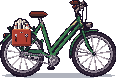
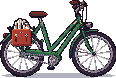
art(ui): tutup rantai menggantikan chainstay, pipa step-through lurus
Penilaian pemilik: chainstay dari engkol tampak menancap ke ban, jadi
diganti tutup rantai hijau yang separuhnya sudah ada di gambar sumber,
diteruskan sampai gir depan dengan ujung melengkung di atas gir. Dua
pipa step-through tampak bergerigi karena potongan sumber dan lanjutan
tidak segaris; sekarang digambar ulang lurus pada garis yang diukur dari
pipa sumber (pipa atas ke tabung sadel, pipa bawah ke poros gir).

Claude-Session: https://claude.ai/code/session_014pKAHN68ypreAvo6djoDqb

Changed region(s): [[0.2069, 0.3077, 0.7241, 0.7949]]

diff --git a/docs/design/redesain/kanvas/Bengkel_TataA.dc.html b/docs/design/redesain/kanvas/Bengkel_TataA.dc.html
@@ -39,7 +39,7 @@ body{margin:0}
 <section class="pnl layar ab" aria-label="Sepeda" style="left: 220px; top: 62px; width: 200px; height: 232px; padding: 4px">
 <div style="position: relative; height: 100%; overflow: hidden; background: #2A1E17; box-shadow: 0 0 0 1px #0E0A1C">
 <img src="/_blob/7cb89d9a8ad08057e730fa7585a0ad93" alt="" style="position: absolute; left: -84px; bottom: 0">
-<img src="/_blob/36b93a68c6a3e83e76194f4f7aeaf630" alt="Sepeda loper" style="position: absolute; left: 34px; top: 132px">
+<img src="/_blob/d3a25f225eede42c995499578ba21adf" alt="Sepeda loper" style="position: absolute; left: 34px; top: 132px">
 <i style="position: absolute; left: 38px; top: 199px; width: 3px; height: 3px; background: #FF8A3D; box-shadow: 0 0 0 1px #0E0A1C"></i>
 <span class="chip kecil warn" style="position: absolute; left: 4px; top: 186px">! Ban</span>
 <i style="position: absolute; left: 107px; top: 136px; width: 3px; height: 3px; background: #FF8A3D; box-shadow: 0 0 0 1px #0E0A1C"></i>

diff --git a/docs/design/redesain/kanvas/Bengkel_TataB.dc.html b/docs/design/redesain/kanvas/Bengkel_TataB.dc.html
@@ -22,7 +22,7 @@ body{margin:0}
 <section class="pnl layar ab" aria-label="Sepeda" style="left: 12px; top: 46px; width: 280px; height: 170px; padding: 4px">
 <div style="position: relative; height: 100%; overflow: hidden; background: #2A1E17; box-shadow: 0 0 0 1px #0E0A1C">
 <img src="/_blob/7cb89d9a8ad08057e730fa7585a0ad93" alt="" style="position: absolute; left: -48px; bottom: 0">
-<img src="/_blob/36b93a68c6a3e83e76194f4f7aeaf630" alt="Sepeda loper" style="position: absolute; left: 74px; top: 70px">
+<img src="/_blob/d3a25f225eede42c995499578ba21adf" alt="Sepeda loper" style="position: absolute; left: 74px; top: 70px">
 <i style="position: absolute; left: 78px; top: 137px; width: 3px; height: 3px; background: #FF8A3D; box-shadow: 0 0 0 1px #0E0A1C"></i>
 <span class="chip kecil warn" style="position: absolute; left: 42px; top: 130px">! Ban</span>
 <i style="position: absolute; left: 147px; top: 74px; width: 3px; height: 3px; background: #FF8A3D; box-shadow: 0 0 0 1px #0E0A1C"></i>

diff --git a/docs/design/redesain/kanvas/Bengkel.dc.html b/docs/design/redesain/kanvas/Bengkel.dc.html
@@ -27,7 +27,7 @@ body{margin:0}
 <div class="bag lbl" style="height: 12px">Servis</div>
 <div style="position: relative; height: {{sh}}px; overflow: hidden; background: #2A1E17; box-shadow: 0 0 0 1px #0E0A1C">
 <img src="/_blob/7cb89d9a8ad08057e730fa7585a0ad93" alt="" style="position: absolute; left: {{papanX}}px; bottom: 0">
-<img src="/_blob/36b93a68c6a3e83e76194f4f7aeaf630" alt="Sepeda loper" style="position: absolute; left: {{bx}}px; top: {{by}}px">
+<img src="/_blob/d3a25f225eede42c995499578ba21adf" alt="Sepeda loper" style="position: absolute; left: {{bx}}px; top: {{by}}px">
 <sc-for list="{{penanda}}" as="m" hint-placeholder-count="2">
 <i style="position: absolute; left: {{m.dx}}px; top: {{m.dy}}px; width: 3px; height: 3px; background: {{m.warna}}; box-shadow: 0 0 0 1px #0E0A1C"></i>
 <span class="chip kecil {{m.cls}}" style="position: absolute; left: {{m.cx}}px; top: {{m.cy}}px">{{m.teks}}</span>

diff --git a/tools/ui_art/redesain/sepeda_fullbody.py b/tools/ui_art/redesain/sepeda_fullbody.py
@@ -37,6 +37,7 @@ MOCK = ROOT / 'docs' / 'design' / 'redesain' / 'aset'
 GARIS = (27, 18, 38)
 HIJAU = [(89, 155, 95), (61, 127, 80), (46, 99, 70)]
 HIJAU_GELAP = (32, 75, 64)
+KREM_PIPA = [(230, 196, 137), (154, 131, 128)]     # sorot krem di pipa sumber
 LOGAM = [(201, 192, 198), (142, 130, 144), (92, 82, 98)]
 JARI = [(189, 179, 187), (125, 114, 128)]
 BAN = [(61, 47, 64), (43, 33, 51)]
@@ -195,12 +196,50 @@ def roda_depan(k, asli):
                     k.titik(x, y, c)
 
 
+# dua pipa step-through dari kepala setang: garis yang diukur dari bagian pipa sumber yang terlihat (pusat baris 157-171).
+# Pipa atas bertemu tabung sadel, pipa bawah lurus ke poros gir. (titik atas, titik bawah, tebal)
+TABUNG_STEP = [((153.4, 156), (103.7, 213), 5), ((164.9, 155), (110, 232), 6)]
+TABUNG_MULAI_Y = 160                            # di atas ini pipa sumber (dengan sorot krem) dipertahankan
+
+
+def tabung_step(img):
+    """Penilaian pemilik 2026-10-23: pipa step-through tampak bergerigi karena potongan sumber dan lanjutan yang digambar
+    ulang tidak segaris. Di bawah TABUNG_MULAI_Y, lorong tiap pipa (tebal + 1,5 px) dikosongkan lalu pipa digambar
+    lurus dari ujung ke ujung dengan garis luar."""
+    H, W = img.shape[:2]
+    lorong = np.zeros((H, W), bool)
+    for (x0, y0), (x1, y1), tebal in TABUNG_STEP:
+        dx, dy = x1 - x0, y1 - y0
+        L2 = dx * dx + dy * dy
+        for y in range(TABUNG_MULAI_Y, int(y1) + 1):
+            for x in range(int(min(x0, x1)) - 6, int(max(x0, x1)) + 7):
+                t = max(0.0, min(1.0, ((x - x0) * dx + (y - y0) * dy) / L2))
+                if math.hypot(x - (x0 + t * dx), y - (y0 + t * dy)) <= tebal / 2 + 1.5:
+                    lorong[y, x] = True
+    hijau = {GARIS, *HIJAU, HIJAU_GELAP}
+    for y, x in zip(*np.nonzero(lorong)):
+        c = tuple(int(v) for v in img[y, x, :3])
+        if img[y, x, 3] and (c in hijau or img[y, x, :3].astype(int).mean() < 60 or c in KREM_PIPA):
+            img[y, x] = 0
+    # sisa hijau lepas di kiri pipa atas (bekas sambungan lama yang tidak segaris), di atas sambungan tabung sadel
+    (x0, y0), (x1, y1), tebal = TABUNG_STEP[0]
+    for y in range(TABUNG_MULAI_Y, 205):
+        xt = x0 + (x1 - x0) * (y - y0) / (y1 - y0)
+        for x in range(int(xt - tebal / 2 - 7), int(xt - tebal / 2 - 1)):
+            c = tuple(int(v) for v in img[y, x, :3])
+            if img[y, x, 3] and c in hijau:
+                img[y, x] = 0
+    k = Kuas(img, lorong)
+    for p0, p1, tebal in TABUNG_STEP:
+        k.pipa(p0, p1, tebal)
+    k.garis_luar()
+
+
 def rangka(k):
     k.pipa((47, 216), DUDUKAN, 3)                   # seat stay
-    k.pipa((80, 214), (BB[0] - 2, BB[1] - 3), 4)    # chainstay menerus ke gir depan
     k.pipa(BB, DUDUKAN, 5)                          # seat tube
-    k.pipa((140, 171), (105, 213), 5)               # pipa step-through atas (lanjutan potongan di kanan)
-    k.pipa((140, 185), (108, 224), 5)               # pipa step-through bawah
+    for p0, p1, tebal in TABUNG_STEP:               # dua pipa step-through
+        k.pipa(p0, p1, tebal)
     k.pipa((86, 158), (82, 146), 2, LOGAM)          # tiang sadel
 
 
@@ -325,7 +364,51 @@ def penggerak(img):
             r = math.hypot(x - cx, y - cy)
             if GIR_BELAKANG_R - 1 < r <= GIR_BELAKANG_R + 1:
                 img[y, x] = (*(GARIS if r > GIR_BELAKANG_R else LOGAM[2]), 255)
+    tutup_rantai(img)
     return rantai
+
+
+TUTUP_RANTAI = ((55, 214), (111, 221.5), 6)   # tutup rantai: lanjutan batang hijau sumber di roda belakang sampai gir depan
+TUTUP_BUSUR = (10, 15, -105, -15)               # ujung depan melengkung di atas gir: jari-jari dalam, luar, sudut awal, akhir
+
+
+def tutup_rantai(img):
+    """Tutup rantai (penilaian pemilik 2026-10-23, menggantikan chainstay yang tampak menancap ke ban): batang hijau
+    yang separuhnya sudah ada di gambar sumber diteruskan sampai gir depan, ujungnya melengkung menutupi bagian atas
+    gir. Di depan rantai dan gir; rantai bawahnya tetap terlihat. Sorot di baris atas, sisi bawah gelap, garis luar."""
+    H, W = img.shape[:2]
+    ss = 6
+    m = Image.new('L', (W * ss, H * ss), 0)
+    d = ImageDraw.Draw(m)
+    (ax, ay), (bx2, by2), tebal = TUTUP_RANTAI
+    d.line([(ax * ss, ay * ss), (bx2 * ss, by2 * ss)], fill=255, width=tebal * ss)
+    bx, by = BB
+    r0, r1, s0, s1 = TUTUP_BUSUR
+    for i in range(0, 61):
+        t = math.radians(s0 + (s1 - s0) * i / 60)
+        rr = (r0 + r1) / 2
+        x, y = bx + rr * math.cos(t), by + rr * math.sin(t)
+        h = (r1 - r0) / 2
+        d.ellipse([(x - h) * ss, (y - h) * ss, (x + h) * ss, (y + h) * ss], fill=255)
+    m = np.asarray(m.resize((W, H), Image.BOX)) >= 128
+    pad = np.pad(m, 1)
+    atas = ~pad[:-2, 1:-1] & m
+    bawah = ~pad[2:, 1:-1] & m
+    ys, xs = np.nonzero(m)
+    for y, x in zip(ys, xs):
+        if atas[y, x]:
+            c = HIJAU[0]
+        elif bawah[y, x]:
+            c = HIJAU_GELAP
+        elif not m[y - 2, x]:
+            c = HIJAU[1]
+        else:
+            c = HIJAU[2]
+        img[y, x] = (*c, 255)
+    tepi = np.zeros_like(m)
+    for dy, dx in ((1, 0), (-1, 0), (0, 1), (0, -1)):
+        tepi |= np.roll(np.roll(m, dy, 0), dx, 1)
+    img[tepi & ~m] = (*GARIS, 255)
 
 
 def rapikan_lepas(img, min_px=60):
@@ -434,6 +517,7 @@ def main():
     roda_depan(k, asli)
     rangka(k)
     k.garis_luar()
+    tabung_step(k.img)
     rantai = penggerak(k.img)
     sadel(k.img)
     tipiskan_kabel(k.img)

diff --git a/docs/design/redesain/README.md b/docs/design/redesain/README.md
@@ -75,7 +75,7 @@ k-means dan inpaint memakai pustaka numerik, jadi menjalankan ulang skrip di mes
 
 ## 5b. Sepeda bengkel
 
-Sepeda di panggung bengkel diambil dari gambar full body pemain (`docs/design/character/loper_agen/loper_agen_fullbody.png`, sama dengan artboard "Gambar AI baru jadi pixel art · versi 5" di artefak Design "Karakter Loper Koran"), atas permintaan pemilik 2026-10-23. Skrip `tools/ui_art/redesain/sepeda_fullbody.py` membuang tokoh (warna tubuh, garis luar gelap di sekitarnya, sepatu, kunci, bayangan lama), lalu menggambar ulang bagian sepeda yang tadinya tertutup tubuh hanya di piksel yang kosong: roda belakang dari profil radial yang diukur dari ban yang terlihat (lingkaran, jari-jari tiap 30°), kiri bawah ban depan (ikut terhapus bersama sepatu) dari pantulan sisi kanannya, tabung rangka step-through dan tabung sadel. Gir depan (lima lengan, gigi putus-putus), engkol dan pedal dua sisi, gir belakang, dan rantai atas dan bawah (garis singgung kedua gir) digambar ulang sebagai satu rakitan di kotak gir, karena sumber hanya memperlihatkan potongannya di antara kaki tokoh; di versi kecil rantai digambar 1 px supaya tidak menggumpal. Sorot pegangan setang seberang kebetulan sama dengan salah satu warna kulit, jadi kotak pegangan dikecualikan dari pembuangan tokoh. Sadel digambar utuh dengan hidung 6 px lebih panjang dari sadel sumber (yang separuhnya tertutup tokoh), dan kabel rem ditipiskan dari 2–3 px jadi 1 px supaya di versi kecil tetap garis tipis (penilaian pemilik 2026-10-23). Semua warna diambil dari palet gambar full body (diuji), garis luar `#1B1226` seperti gambar skala besar. Bayangan baru elips datar.
+Sepeda di panggung bengkel diambil dari gambar full body pemain (`docs/design/character/loper_agen/loper_agen_fullbody.png`, sama dengan artboard "Gambar AI baru jadi pixel art · versi 5" di artefak Design "Karakter Loper Koran"), atas permintaan pemilik 2026-10-23. Skrip `tools/ui_art/redesain/sepeda_fullbody.py` membuang tokoh (warna tubuh, garis luar gelap di sekitarnya, sepatu, kunci, bayangan lama), lalu menggambar ulang bagian sepeda yang tadinya tertutup tubuh hanya di piksel yang kosong: roda belakang dari profil radial yang diukur dari ban yang terlihat (lingkaran, jari-jari tiap 30°), kiri bawah ban depan (ikut terhapus bersama sepatu) dari pantulan sisi kanannya, dan tabung sadel. Dua pipa step-through digambar ulang lurus dari bawah kepala setang (garis diukur dari bagian pipa sumber yang terlihat: pipa atas bertemu tabung sadel, pipa bawah lurus ke poros gir), karena sambungan potongan sumber dan lanjutan yang tidak segaris tampak bergerigi. Chainstay tidak digambar; gantinya tutup rantai hijau yang separuhnya sudah ada di roda belakang diteruskan sampai gir depan dan ujungnya melengkung di atas gir. Gir depan (lima lengan, gigi putus-putus), engkol dan pedal dua sisi, gir belakang, dan rantai atas dan bawah (garis singgung kedua gir) digambar ulang sebagai satu rakitan di kotak gir, karena sumber hanya memperlihatkan potongannya di antara kaki tokoh; di versi kecil rantai digambar 1 px supaya tidak menggumpal. Sorot pegangan setang seberang kebetulan sama dengan salah satu warna kulit, jadi kotak pegangan dikecualikan dari pembuangan tokoh. Sadel digambar utuh dengan hidung 6 px lebih panjang dari sadel sumber (yang separuhnya tertutup tokoh), dan kabel rem ditipiskan dari 2–3 px jadi 1 px supaya di versi kecil tetap garis tipis (penilaian pemilik 2026-10-23). Semua warna diambil dari palet gambar full body (diuji), garis luar `#1B1226` seperti gambar skala besar. Bayangan baru elips datar.
 
 `sepeda_besar.png` (232×155) adalah potongan 1×; `sepeda_kecil.png` (116×78) dibuat dengan blok 2×2 (blok penuh = warna terbanyak, garis tipis dan jari-jari = warna paling terang, garis luar hanya di sekeliling blok penuh) dan dipakai di kanvas, dekat ukuran sepeda prosedural lama 124×72. Titik penanda kondisi di `sepeda.json` (`titik_kecil`: ban, rem, rantai; titik rantai di rantai atas). Keluaran deterministik (tanpa pustaka acak), jadi uji memeriksa kecocokan piksel.
 
@@ -103,9 +103,9 @@ Yang masih terlihat bila diamati: beberapa piksel krem dan hijau sisa di dekat t
 | `/_blob/98684303037eba551a7f7796438e9a19`, `df48d4009ee5bbb88103f90cb3703898`, `e830964809efbba3c566642bd9bdb0a0`, `87dc67e5338052466bc1aac551111379`, `81d789adb2123fb01971957f3f73f0fc` | `koran_kotak`, `koran_btn_tinta`, `koran_btn_tinta_tekan`, `koran_btn_tipis`, `koran_btn_terpilih` |
 | `/_blob/6ff6449167533e37b1201340a06e5e4e`, `2f6d4018a9ca280cd6dbf775e4ec204c`, `afbc131fc226ae494a5183644dccca52`, `c493d6bcb490bfaa6028c5c5ec03fd70` | `struk`, `struk_takik`, `arsir_nonaktif`, `kertas_tile` |
 | `/_blob/372c7f38efe88500b9954cf865bfb34b`, `a8fc11bcff0402de83219ac569df5491`, `6331f06c70ca2aa3a6a6e552dfe9ad79` | `ikon24`, `lencana32`, `glif12` |
-| `/_blob/36b93a68c6a3e83e76194f4f7aeaf630`, `7cb89d9a8ad08057e730fa7585a0ad93`, `7474ef878735646d976d01349198b272`, `a31678716a113eab1149137657ce2e0a` | `sepeda_kecil`, `papan_alat`, `foto_jalan`, `foto_lampu` |
+| `/_blob/d3a25f225eede42c995499578ba21adf`, `7cb89d9a8ad08057e730fa7585a0ad93`, `7474ef878735646d976d01349198b272`, `a31678716a113eab1149137657ce2e0a` | `sepeda_kecil`, `papan_alat`, `foto_jalan`, `foto_lampu` |
 | `/_blob/0394a12fbc917b33a44355e7ebdde963` | `latar_bengkel/bengkel_latar_800.png` |
 | `/_blob/f69c513708dab5417f72e6f09771d7b4` | Tangkapan layar jalan run 5B diperkecil ke 640×360 (`docs/loop/20261021-fase5b-tembok-dekor/shots/iter1/1920x1080_dekat_dekor_jalur_utama.png`), latar papan Jeda, Tutorial, Banner, HUD |
 | `/_blob/1b8c69138f32cb9445bfef455e4dad11`, `e03f1bcfd5e463815d1be2eab707a584`, `8accfd5abc85c093f7ac098be585e921`, `972e215ef8cce3d49f3b1dbb217faafd`, `ae731af7a3e15ce2c89612c2e528318f`, `95fa34e99a2063540cf39d946e534094`, `97b23399af47af9a6ee68826f41c12bb` | `assets/sprites/ui/ui_icon_{koin,reputasi,ban,rem,rantai,misi_kucing}.png`, `ui_bel_tombol.png` (yang sudah ada) |
 
-Unggahan lama yang tidak dirujuk lagi: `f5c80e40e3992d10089aad6bc5490d1b` (`ui.css` versi pertama, teks tombol 16 px karena `font: inherit`), `69ef450186d7982468ce4c6f54fe2fa0` (latar bengkel prosedural sebelum latar konversi), `81d52c510b5d1bc715675a17de150433` (papan alat 236 lebar), `af3437483605c4f53214bb9555dbab9e` (sepeda tampak samping prosedural 124×72 sebelum sepeda dari gambar full body), `0351d78ef85ba2fd0e7d4b9da4e2e00c` (sepeda full body pertama: sadel pendek, kabel 2 px, ban belakang lonjong dan kiri bawah ban depan terpotong), `6f2f3584f2de132d48054a6fcf5c2150` (perbaikan pertama: pegangan setang masih coak, gir dan engkol belum menyatu, tanpa rantai).
+Unggahan lama yang tidak dirujuk lagi: `f5c80e40e3992d10089aad6bc5490d1b` (`ui.css` versi pertama, teks tombol 16 px karena `font: inherit`), `69ef450186d7982468ce4c6f54fe2fa0` (latar bengkel prosedural sebelum latar konversi), `81d52c510b5d1bc715675a17de150433` (papan alat 236 lebar), `af3437483605c4f53214bb9555dbab9e` (sepeda tampak samping prosedural 124×72 sebelum sepeda dari gambar full body), `0351d78ef85ba2fd0e7d4b9da4e2e00c` (sepeda full body pertama: sadel pendek, kabel 2 px, ban belakang lonjong dan kiri bawah ban depan terpotong), `6f2f3584f2de132d48054a6fcf5c2150` (perbaikan pertama: pegangan setang masih coak, gir dan engkol belum menyatu, tanpa rantai), `36b93a68c6a3e83e76194f4f7aeaf630` dan `90993ea437019433323d4d75de336748` (chainstay yang tampak menancap ke ban; pipa step-through bergerigi).
